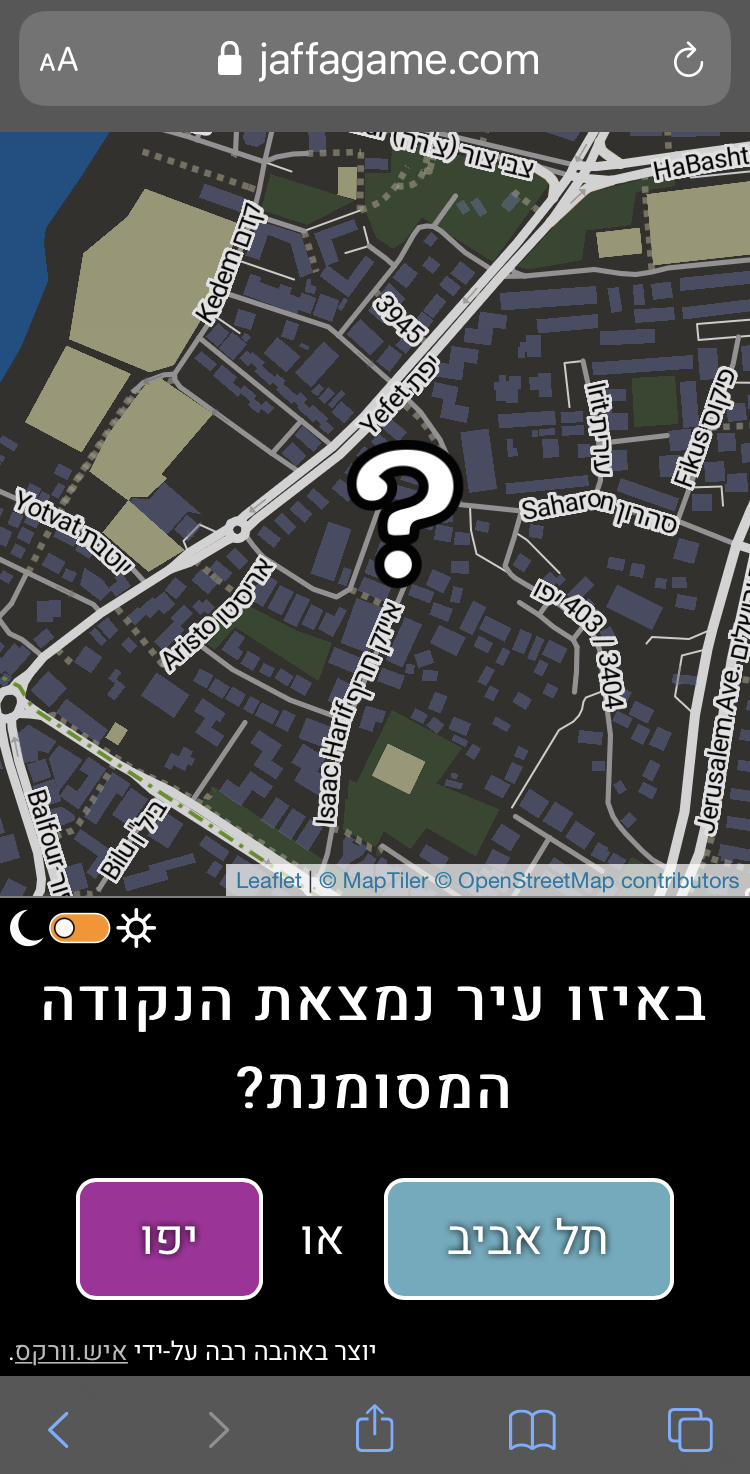
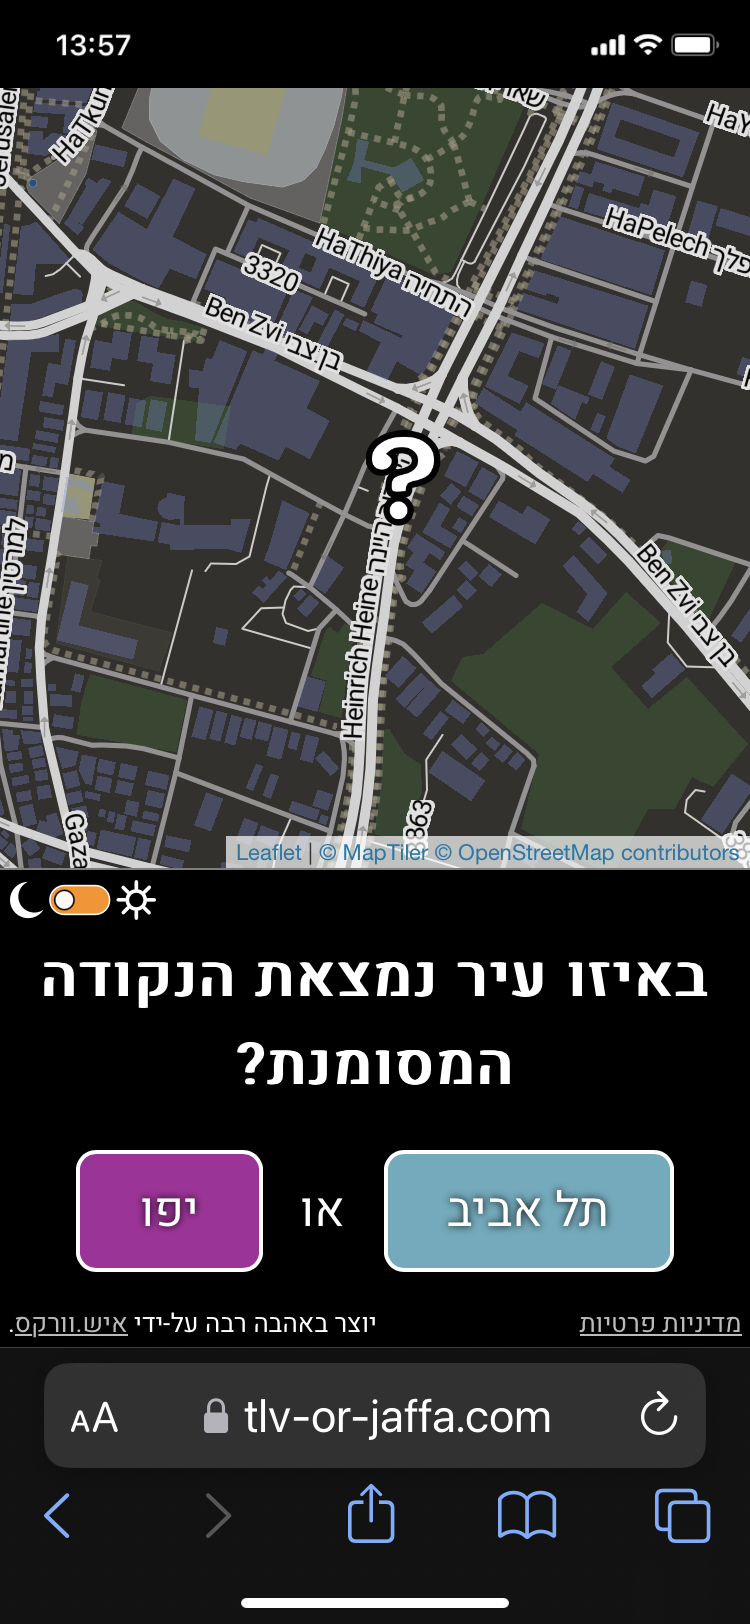
new screenshot showing off the new domain, and a new link in the readme linking to the new domain

diff --git a/README.md b/README.md
@@ -1,7 +1,5 @@
 # Tel Aviv or Jaffa?
 
-A Hebrew-language web-based game/public-opinion-poll, trying futilely to embark on the fool's errand of determining where the Tel Aviv/Jaffa border lies.
+A Hebrew-language web-based game/public-opinion-poll, trying futilely to embark on the fool's errand of determining where the Tel Aviv/Jaffa border lies. You can [play/answer it in your browser](https://tlv-or-jaffa.com)!
 
-<img src="/screenshot.jpg" title="a screenshot of the game/poll" height="512">
-
-(Note: I no longer host the game at the address in the screenshot)
+<img src="/screenshot.jpg" alt="iphone browser showing a map of some random point in tel aviv/jaffa (the intersection of ben zvi and shlabim) with a question mark in the middle, and under it the text &quot;Which city is the marked location at?&quot; with two big buttons labeled &quot;Tel Aviv&quot; and &quot;Jaffa&quot; under it" height="512">
